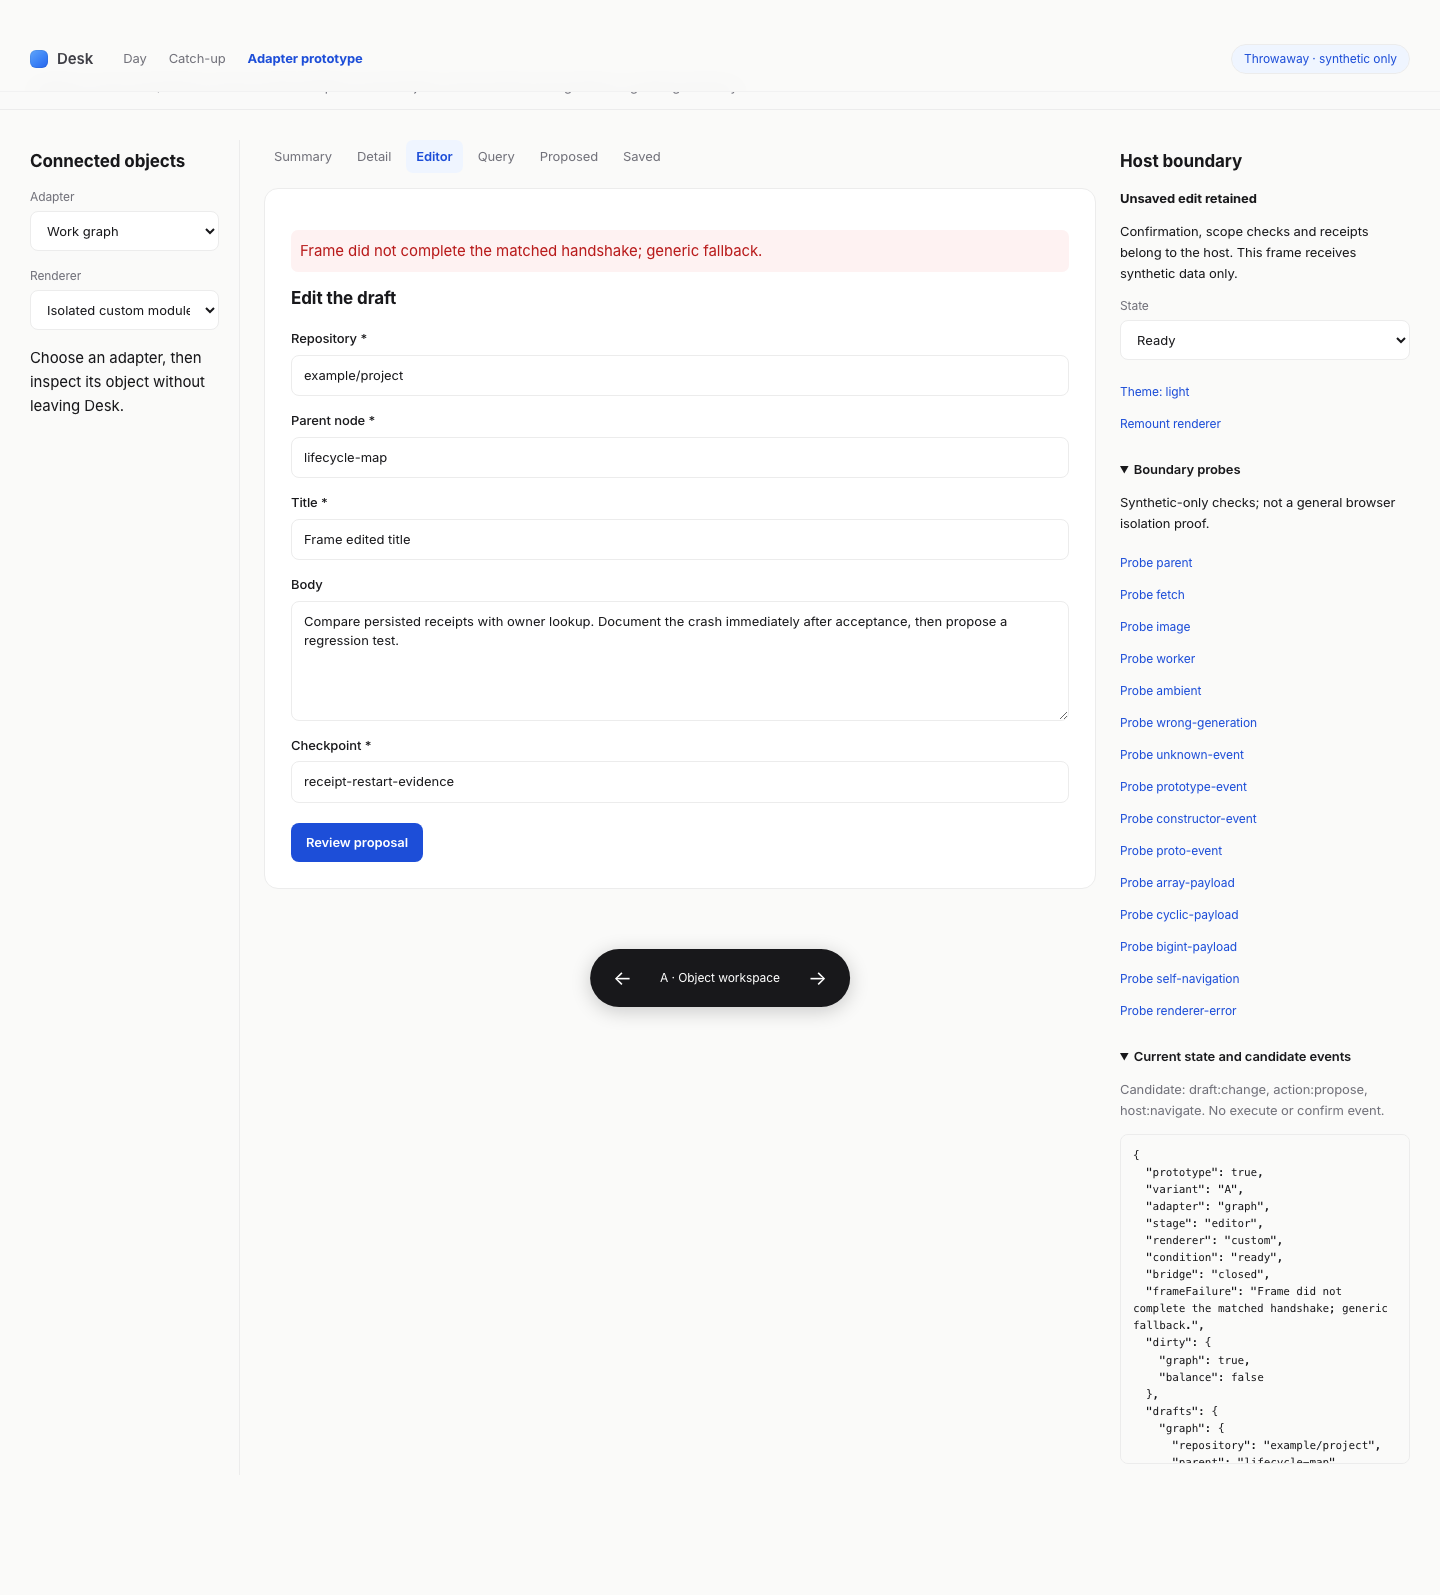
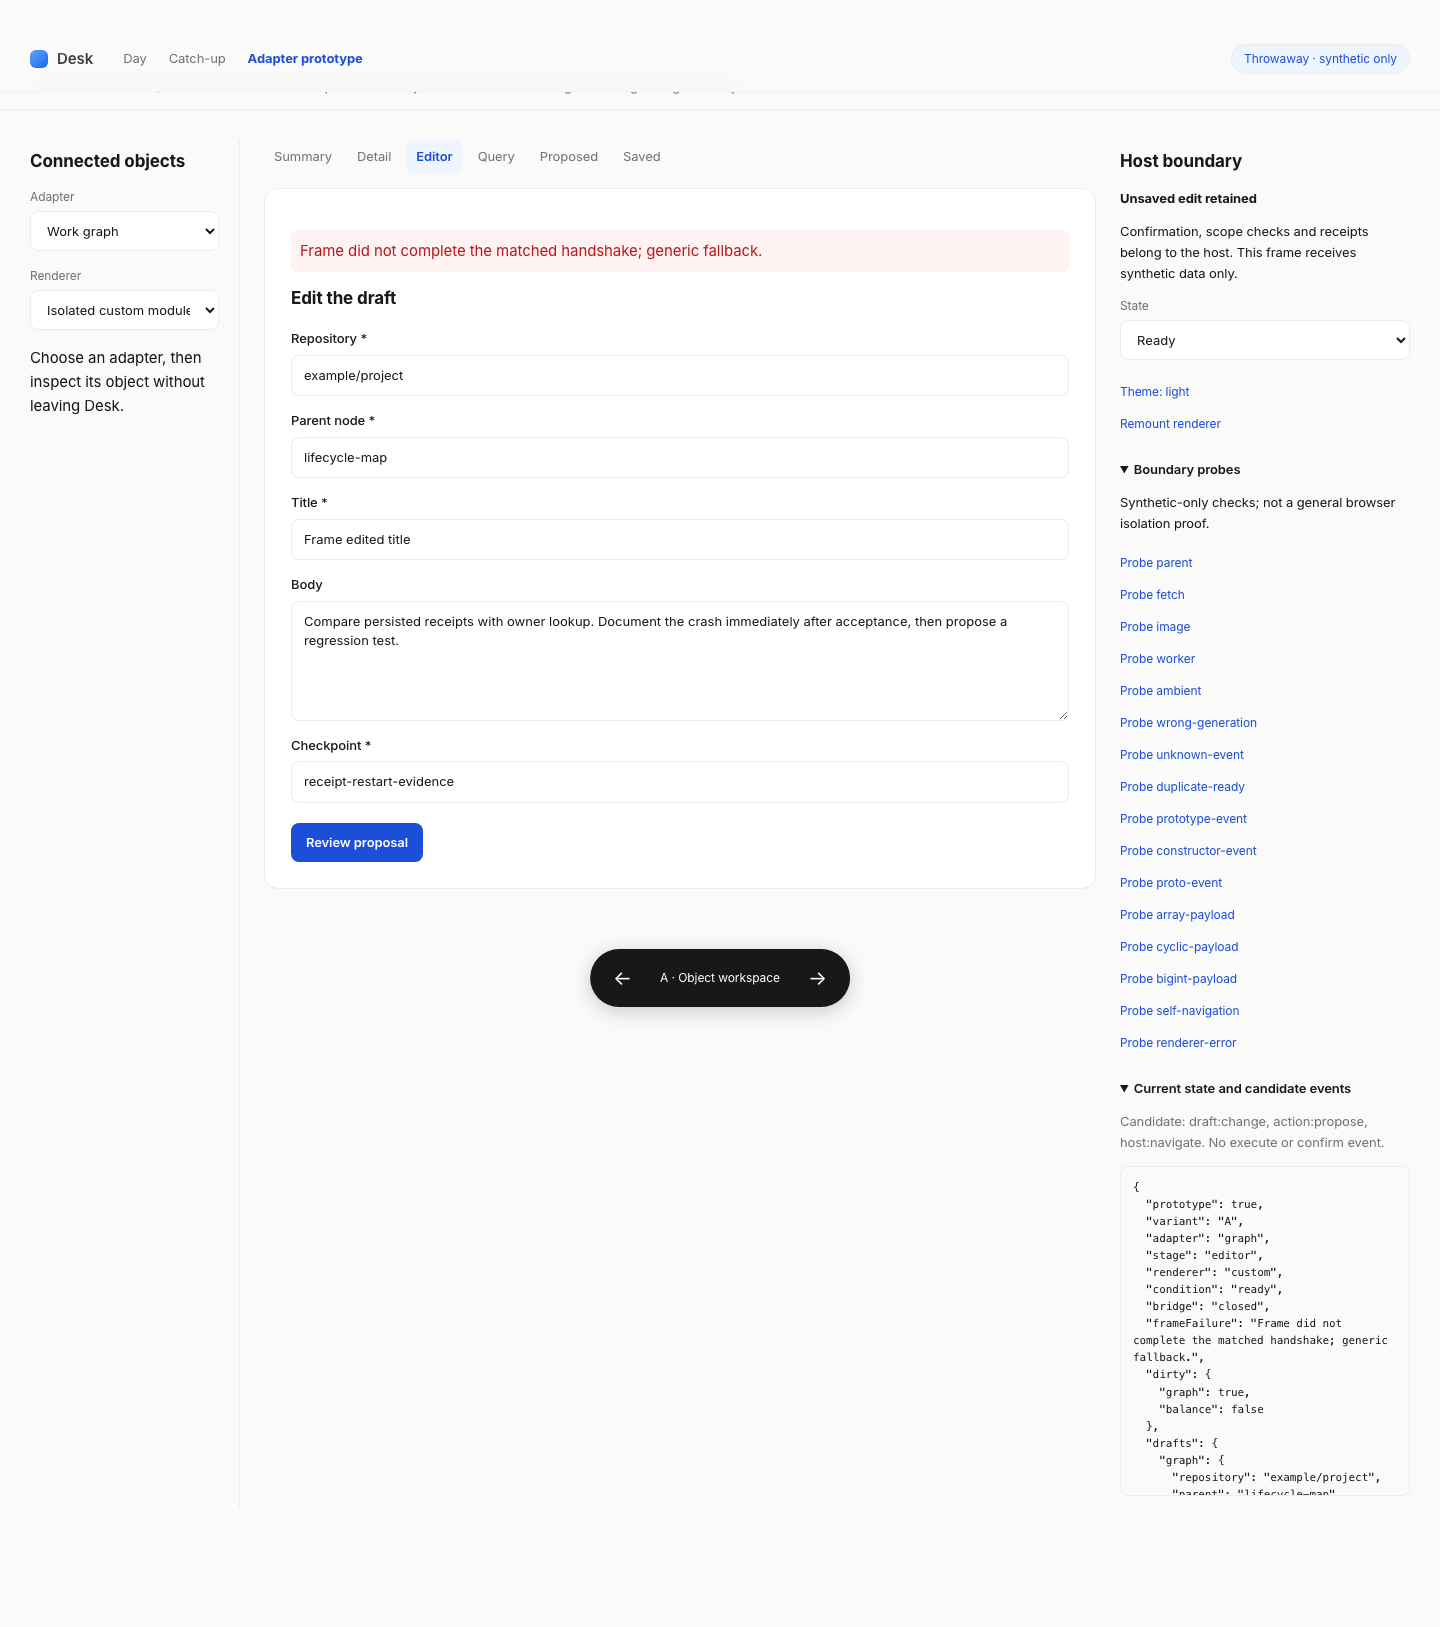
fix(prototype): require matched readiness before frame events

diff --git a/src/surface/mc/dashboard-v2/components/desk-adapter-ui-prototype.tsx b/src/surface/mc/dashboard-v2/components/desk-adapter-ui-prototype.tsx
@@ -91,6 +91,8 @@ export function DeskAdapterUiPrototype() {
       const allowed: Record<string, string[]> = { ready: [], "draft:change": ["name", "value"], "action:propose": [], "host:navigate": ["stage"], "probe:result": ["attack", "result"], "renderer:error": ["message"] };
       const keys = typeof raw.type === "string" && Object.hasOwn(allowed, raw.type) ? allowed[raw.type] : undefined;
       if (!keys || Object.keys(raw).some(key => !["type", "instance", "release", "protocol", ...keys].includes(key))) { fail("Unsupported frame event; generic fallback."); return; }
+      if (!ready && raw.type !== "ready") { fail("Frame event arrived before matched ready; generic fallback."); return; }
+      if (raw.type === "ready" && ready) { fail("Frame replayed a completed handshake; generic fallback."); return; }
       if (raw.type === "ready") { ready = true; setBridge("ready"); channel.port1.postMessage({ type: "host:projection", ...latest.current }); }
       if (raw.type === "draft:change") { if (typeof raw.name !== "string" || typeof raw.value !== "string" || raw.value.length > 20000 || !schemas[adapter].some(field => field.name === raw.name)) { fail("Invalid draft patch; generic fallback."); return; } change(raw.name, raw.value); }
       if (raw.type === "action:propose") { selectStage("proposed"); note("Frame requested a proposal; host confirmation remains separate."); }
@@ -116,7 +118,7 @@ export function DeskAdapterUiPrototype() {
   else hostContent = <><small>{adapter === "graph" ? "Research node · approval required" : "Task · local connection"}</small><h1>{title}</h1><p>{drafts[adapter].body ?? drafts[adapter].note}</p>{stage === "detail" && <dl>{schemas[adapter].filter(field => field.name !== "title").map(field => <div key={field.name}><dt>{field.label}</dt><dd>{drafts[adapter][field.name] || "Not specified"}</dd></div>)}</dl>}<div className="dap-actions"><button type="button" className="dap-primary" onClick={() => { selectStage("editor"); }}>Edit draft</button><button type="button" onClick={() => { selectStage("query"); }}>Inspect source scope</button></div></>;
   const customVisible = renderer === "custom" && !frameFailure && condition === "ready";
   const content = <>{condition === "loading" ? <p role="status">Loading the synthetic renderer…</p> : condition === "unavailable" ? <div role="status"><h2>Connection unavailable</h2><p>Draft and host history are retained. Actions are disabled until a supported connection returns.</p></div> : <>{fallback && <p role="alert" className="dap-error">{frameFailure}</p>}{customVisible ? <><iframe key={`${adapter}-${mount}`} ref={frame} title={`${adapter} custom adapter`} sandbox="allow-scripts" src="/prototype-assets/generation-a/module.html" onLoad={connect} />{(stage === "proposed" || stage === "saved") && hostContent}</> : hostContent}</>}</>;
-  const inspector = <><h2>Host boundary</h2><p><strong>{dirty[adapter] ? "Unsaved edit retained" : "Seeded synthetic draft"}</strong></p><p>Confirmation, scope checks and receipts belong to the host. This frame receives synthetic data only.</p><label className="dap-control">State<select aria-label="Simulated state" value={condition} onChange={event => { setCondition(event.target.value); }}><option value="ready">Ready</option><option value="loading">Loading</option><option value="unavailable">Unavailable</option></select></label><button type="button" onClick={() => { setTheme(current => current === "light" ? "dark" : "light"); }}>Theme: {theme}</button><button type="button" onClick={() => { setFrameFailure(""); setBridge("mounting"); setMount(current => current + 1); }}>Remount renderer</button><details><summary>Boundary probes</summary><p>Synthetic-only checks; not a general browser isolation proof.</p>{["parent", "fetch", "image", "worker", "ambient", "wrong-generation", "unknown-event", "prototype-event", "constructor-event", "proto-event", "array-payload", "cyclic-payload", "bigint-payload", "self-navigation", "renderer-error"].map(attack => <button type="button" key={attack} onClick={() => { port.current?.postMessage({ type: "host:probe", attack }); }}>Probe {attack}</button>)}</details><details open><summary>Current state and candidate events</summary><p className="dap-muted">Candidate: draft:change, action:propose, host:navigate. No execute or confirm event.</p><pre data-prototype-state>{JSON.stringify(state, null, 2)}</pre></details></>;
+  const inspector = <><h2>Host boundary</h2><p><strong>{dirty[adapter] ? "Unsaved edit retained" : "Seeded synthetic draft"}</strong></p><p>Confirmation, scope checks and receipts belong to the host. This frame receives synthetic data only.</p><label className="dap-control">State<select aria-label="Simulated state" value={condition} onChange={event => { setCondition(event.target.value); }}><option value="ready">Ready</option><option value="loading">Loading</option><option value="unavailable">Unavailable</option></select></label><button type="button" onClick={() => { setTheme(current => current === "light" ? "dark" : "light"); }}>Theme: {theme}</button><button type="button" onClick={() => { setFrameFailure(""); setBridge("mounting"); setMount(current => current + 1); }}>Remount renderer</button><details><summary>Boundary probes</summary><p>Synthetic-only checks; not a general browser isolation proof.</p>{["parent", "fetch", "image", "worker", "ambient", "wrong-generation", "unknown-event", "duplicate-ready", "prototype-event", "constructor-event", "proto-event", "array-payload", "cyclic-payload", "bigint-payload", "self-navigation", "renderer-error"].map(attack => <button type="button" key={attack} onClick={() => { port.current?.postMessage({ type: "host:probe", attack }); }}>Probe {attack}</button>)}</details><details open><summary>Current state and candidate events</summary><p className="dap-muted">Candidate: draft:change, action:propose, host:navigate. No execute or confirm event.</p><pre data-prototype-state>{JSON.stringify(state, null, 2)}</pre></details></>;
   const Layout = variant === "A" ? VariantA : variant === "B" ? VariantB : VariantC;
   return <div className={`desk dap${theme === "dark" ? " dap-dark" : ""}`}><header className="desk-top"><div className="dap-top"><div className="desk-brand"><span className="desk-mark" />Desk</div><nav aria-label="Desk"><span>Day</span><span>Catch-up</span><strong>Adapter prototype</strong></nav><span className="dap-badge">Throwaway · synthetic only</span></div></header><div className="dap-banner">Question: which host/render contract makes adapter-owned objects useful without losing drafts or granting authority?</div><Layout tools={tools} tabs={tabs} content={content} inspector={inspector} /><div className="dap-switcher" aria-label="Prototype variants"><button type="button" aria-label="Previous variant" onClick={() => { cycle(-1); }}>←</button><span>{variant} · {names[variant]}</span><button type="button" aria-label="Next variant" onClick={() => { cycle(1); }}>→</button></div></div>;
 }

diff --git a/scripts/probe-desk-adapter-ui.ts b/scripts/probe-desk-adapter-ui.ts
@@ -20,6 +20,30 @@ page.on("requestfailed", request => failedRequests.push(`${request.url()} ${requ
 const ensure = (condition: unknown, message: string) => { if (!condition) throw new Error(message); };
 const state = async () => JSON.parse(await page.locator("[data-prototype-state]").innerText()) as { adapter: string; stage: string; bridge: string; instance: string; drafts: Record<string, Record<string, string>>; dirty: Record<string, boolean>; syntheticOwnerWrites: number; externalOwnerWrites: number; events: string[] };
 const waitState = async (predicate: (value: Awaited<ReturnType<typeof state>>) => boolean, message: string) => { for (let attempt = 0; attempt < 50; attempt++) { if (predicate(await state())) return; await page.waitForTimeout(100); } throw new Error(message); };
+for (const kind of ["draft:change", "action:propose", "host:navigate"]) {
+  const attackPage = await browser.newPage();
+  const bootstrapKeys: string[][] = [];
+  attackPage.on("console", message => { if (message.text().startsWith("PROTOTYPE_BOOTSTRAP_KEYS:")) bootstrapKeys.push(JSON.parse(message.text().slice("PROTOTYPE_BOOTSTRAP_KEYS:".length)) as string[]); });
+  await attackPage.addInitScript(({ kind }) => {
+    const original = MessagePort.prototype.postMessage;
+    window.addEventListener("message", event => { if (window !== parent && event.data?.type === "desk:init") console.log(`PROTOTYPE_BOOTSTRAP_KEYS:${JSON.stringify(Object.keys(event.data))}`); });
+    MessagePort.prototype.postMessage = function(message, transfer) {
+      if (window !== parent && message?.type === "ready") {
+        const attack = { ...message, type: kind, ...(kind === "draft:change" ? { name: "title", value: "Changed before ready" } : kind === "host:navigate" ? { stage: "editor" } : {}) };
+        return Reflect.apply(original, this, [attack, transfer]);
+      }
+      return Reflect.apply(original, this, [message, transfer]);
+    };
+  }, { kind });
+  await attackPage.goto(`${origin}/?desk=adapter-ui-prototype&variant=A`);
+  await attackPage.getByLabel("Renderer", { exact: true }).selectOption("custom");
+  await attackPage.waitForTimeout(1200);
+  const attacked = JSON.parse(await attackPage.locator("[data-prototype-state]").innerText()) as Awaited<ReturnType<typeof state>>;
+  ensure(bootstrapKeys.length === 1 && JSON.stringify(bootstrapKeys[0]?.sort()) === JSON.stringify(["type", "instance", "release", "protocol", "attackOrigin"].sort()), "Initial packet carried projected data or unexpected context");
+  ensure(attacked.bridge === "closed" && attacked.drafts.graph?.title === "Investigate receipt preservation" && !attacked.dirty.graph && attacked.stage === "summary" && attacked.syntheticOwnerWrites === 0, `Pre-ready ${kind} mutated host state`);
+  await attackPage.close();
+}
+console.log("Data-free bootstrap and pre-ready edit/proposal/navigation rejection passed");
 await page.goto(`${origin}/?desk=adapter-ui-prototype&variant=A`);
 await page.getByRole("heading", { name: "Investigate receipt preservation", exact: true }).waitFor();
 for (const variant of ["A", "B", "C"]) {
@@ -83,7 +107,7 @@ ensure(observed.events.some(event => event.includes("connect-src")), "Fetch CSP 
 ensure(observed.events.some(event => event.includes("img-src")), "Image CSP enforcement not observed");
 ensure(observed.events.some(event => event.startsWith("worker:") && event.includes("blocked")), "Worker boundary denial not observed");
 ensure(observed.events.some(event => event.includes("Ambient")), "Ambient forged event not ignored");
-for (const attack of ["wrong-generation", "unknown-event", "prototype-event", "constructor-event", "proto-event", "array-payload", "cyclic-payload", "bigint-payload", "renderer-error", "self-navigation"]) {
+for (const attack of ["wrong-generation", "unknown-event", "duplicate-ready", "prototype-event", "constructor-event", "proto-event", "array-payload", "cyclic-payload", "bigint-payload", "renderer-error", "self-navigation"]) {
   await remount();
   await page.getByRole("button", { name: `Probe ${attack}`, exact: true }).click();
   await waitState(value => value.bridge === "closed", `${attack} did not close bridge/fallback`);
@@ -98,7 +122,7 @@ observed = await state();
 const network = await (await fetch(`${origin}/__prototype-network`)).json() as { syntheticReceiverRequests: string[] };
 ensure(network.syntheticReceiverRequests.length === 0, "A synthetic exfiltration request reached the second origin");
 ensure(pageErrors.length === 0, `Unexpected browser errors:${pageErrors.join(";")}`);
-await writeFile(join(output, "probe.json"), JSON.stringify({ passed: true, browserVersion: browser.version(), cases: ["three desktop/mobile layouts", "dirty draft retained", "host validation", "explicit synthetic confirmation once", "real isolated graph and Balance frames", "current generation binding", "unknown/inherited event and array rejection", "parent DOM denial", "fetch/image CSP and worker denial", "ambient message ignored", "self-navigation frame-source containment", "renderer fallback", "loading/unavailable"], finalState: observed, network, failedRequests, pageErrors, limitation: "Chromium synthetic local-origin candidate evidence only; not a complete no-egress or hosted authentication proof. No real protected data or credentials admitted." }, null, 2));
+await writeFile(join(output, "probe.json"), JSON.stringify({ passed: true, browserVersion: browser.version(), cases: ["three desktop/mobile layouts", "dirty draft retained", "host validation", "explicit synthetic confirmation once", "real isolated graph and Balance frames", "current generation binding", "data-free bootstrap and pre-ready rejection", "unknown/inherited event and array rejection", "parent DOM denial", "fetch/image CSP and worker denial", "ambient message ignored", "self-navigation frame-source containment", "renderer fallback", "loading/unavailable"], finalState: observed, network, failedRequests, pageErrors, limitation: "Chromium synthetic local-origin candidate evidence only; not a complete no-egress or hosted authentication proof. No real protected data or credentials admitted." }, null, 2));
 console.log(`Prototype browser probe passed; evidence:${output}`);
 
 } finally { await browser.close(); }

diff --git a/src/surface/mc/dashboard-v2/components/desk-adapter-ui-prototype-module.js b/src/surface/mc/dashboard-v2/components/desk-adapter-ui-prototype-module.js
@@ -32,6 +32,7 @@ const probe = async attack => {
   } else if (attack === "ambient") parent.postMessage({ type: "action:execute", fields: current.fields }, "*");
   else if (attack === "wrong-generation") port.postMessage({ type: "draft:change", ...identity, release: "generation-b", name: "title", value: "Forged replacement" });
   else if (attack === "unknown-event") send("action:execute", { fields: current.fields });
+  else if (attack === "duplicate-ready") send("ready");
   else if (attack === "prototype-event") send("toString");
   else if (attack === "constructor-event") send("constructor");
   else if (attack === "proto-event") send("__proto__");

diff --git a/docs/prototypes/desk-adapter-ui/README.md b/docs/prototypes/desk-adapter-ui/README.md
@@ -12,7 +12,7 @@ Run `bun run prototype:desk-adapter-ui` and open `http://127.0.0.1:33590/?desk=a
 
 Choose Work graph or Balance and either the host schema fallback or isolated custom module. Summary, detail, editor, selected-scope query result, proposed action and saved receipt share one host model. Edit a field, switch adapter/view/variant and return: the dirty draft remains. Empty a required title and request review: host validation blocks it. Only the host's explicit confirmation increments the synthetic owner counter. Saved results are adapter-scoped; reopening does not repeat that call. No real object exists.
 
-The custom module runs inside a real `sandbox="allow-scripts"` frame without same-origin privilege, receives a host-created MessageChannel and synthetic projection after the matched handshake, and proposes candidate `draft:change`, `host:navigate` and `action:propose` events. It has no execute/confirm event. Host validation closes a mismatched generation, unknown/inherited event, array or malformed cyclic/BigInt payload and retains the draft in the schema fallback. Remount creates a fresh bridge instance. Loading, unavailable, renderer failure, light/dark host theme and mobile layouts are inspectable.
+The custom module runs inside a real `sandbox="allow-scripts"` frame without same-origin privilege, receives a data-free bootstrap and host-created MessageChannel, then a synthetic projection only after the matched ready handshake, and proposes candidate `draft:change`, `host:navigate` and `action:propose` events. It has no execute/confirm event. Host validation closes a mismatched generation, unknown/inherited event, array or malformed cyclic/BigInt payload and retains the draft in the schema fallback. Remount creates a fresh bridge instance. Loading, unavailable, renderer failure, light/dark host theme and mobile layouts are inspectable.
 
 ## Browser evidence
 
@@ -22,7 +22,7 @@ The custom module runs inside a real `sandbox="allow-scripts"` frame without sam
 bun --no-env-file scripts/probe-desk-adapter-ui.ts --browser /tmp/cortex-3290-browser/chrome-headless-shell --out /tmp/cortex-3290-browser-evidence
 ```
 
-The receiver at localhost port33591 deliberately allows an uncredentialed response; the browser boundary, not a Playwright route abort or CORS, must prevent delivery. Fetch/image CSP violations were observed; parent DOM and worker construction were denied by opaque-origin rules. Self-navigation is constrained by parent frame-source policy. The receiver saw zero requests. Ambient frame messages did not become authority. Wrong-generation/unknown/constructor/__proto__/toString/array/cyclic/BigInt events and renderer failures closed the bridge. The explicit synthetic save happened once; external owner calls remained zero.
+The receiver at localhost port33591 deliberately allows an uncredentialed response; the browser boundary, not a Playwright route abort or CORS, must prevent delivery. Fetch/image CSP violations were observed; parent DOM and worker construction were denied by opaque-origin rules. Self-navigation is constrained by parent frame-source policy. The receiver saw zero requests. Suppressed-ready draft/proposal/navigation attacks left the host unchanged; the initial packet contained no projected fields and repeated-ready events closed the bridge. Ambient frame messages did not become authority. Wrong-generation/unknown/constructor/__proto__/toString/array/cyclic/BigInt events and renderer failures closed the bridge. The explicit synthetic save happened once; external owner calls remained zero.
 
 ## Limits and decision still needed
 
